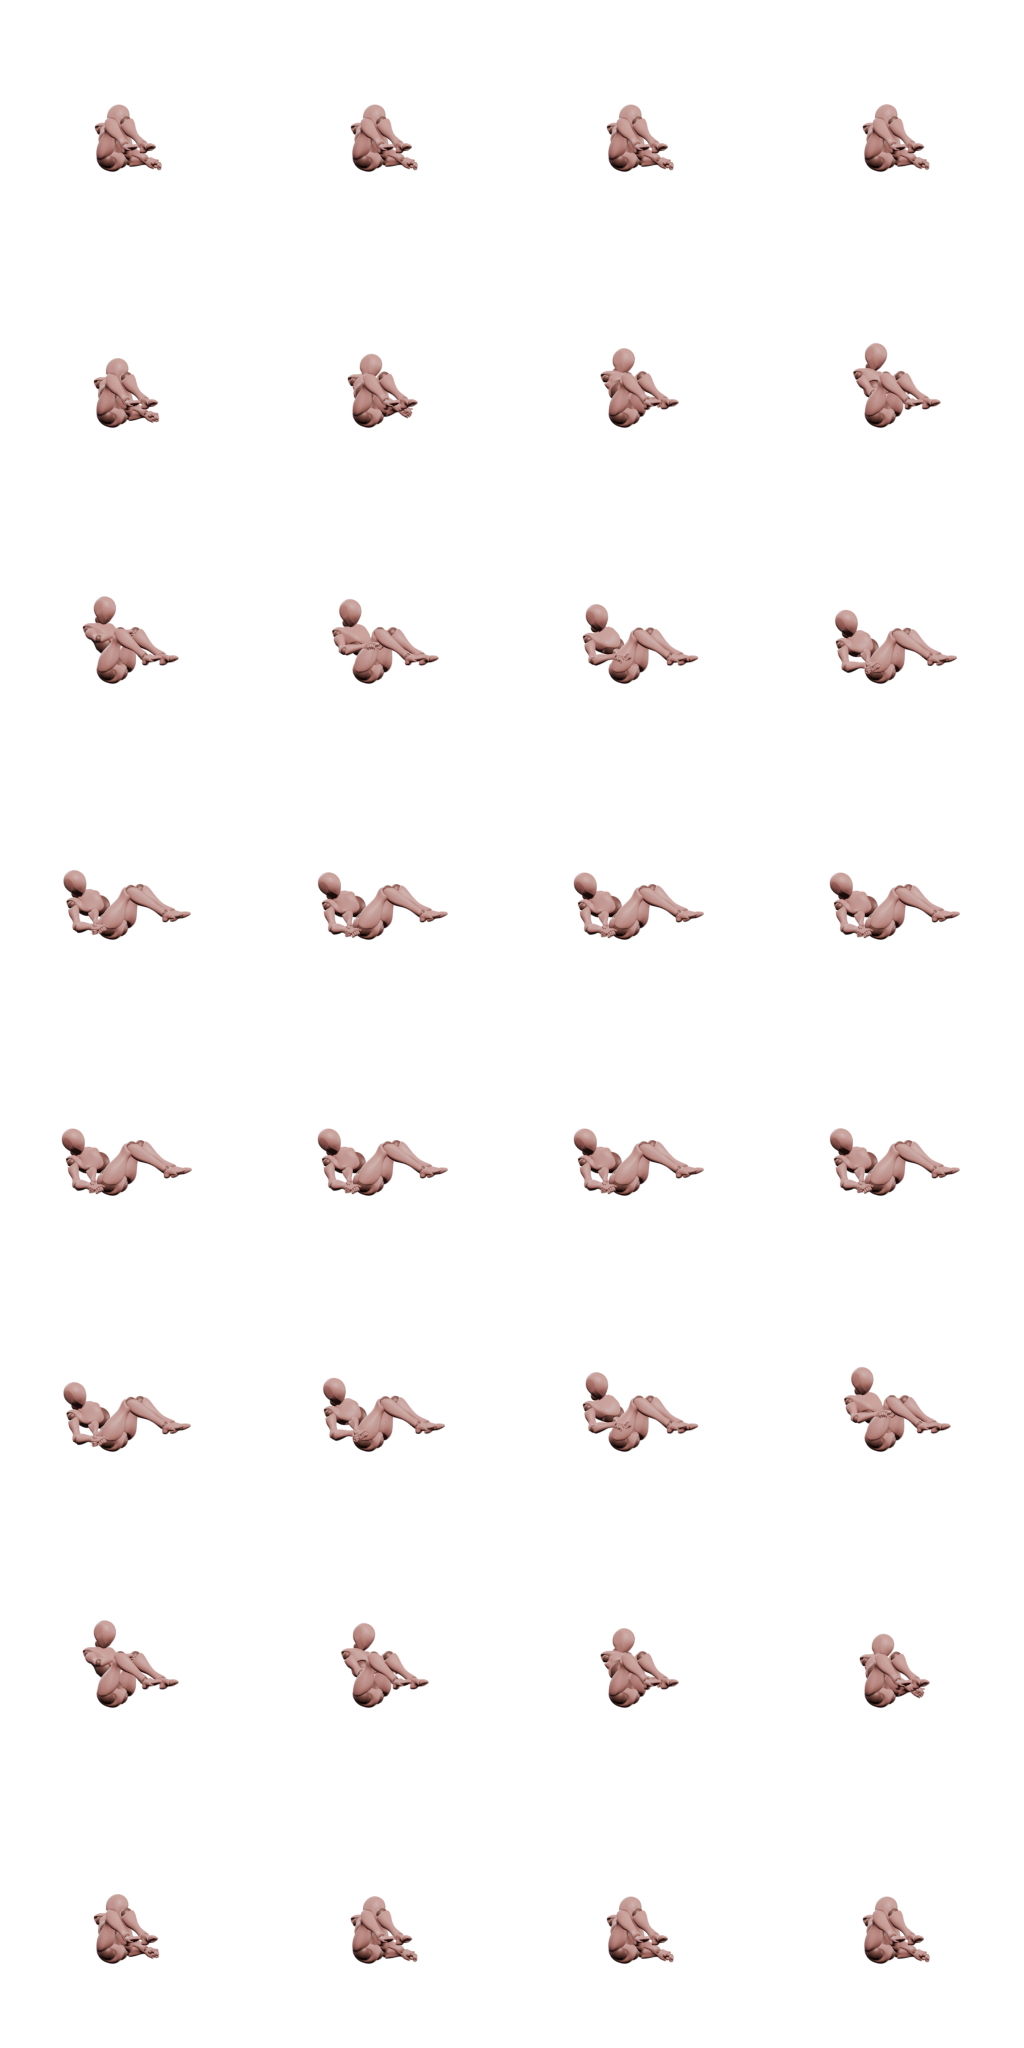
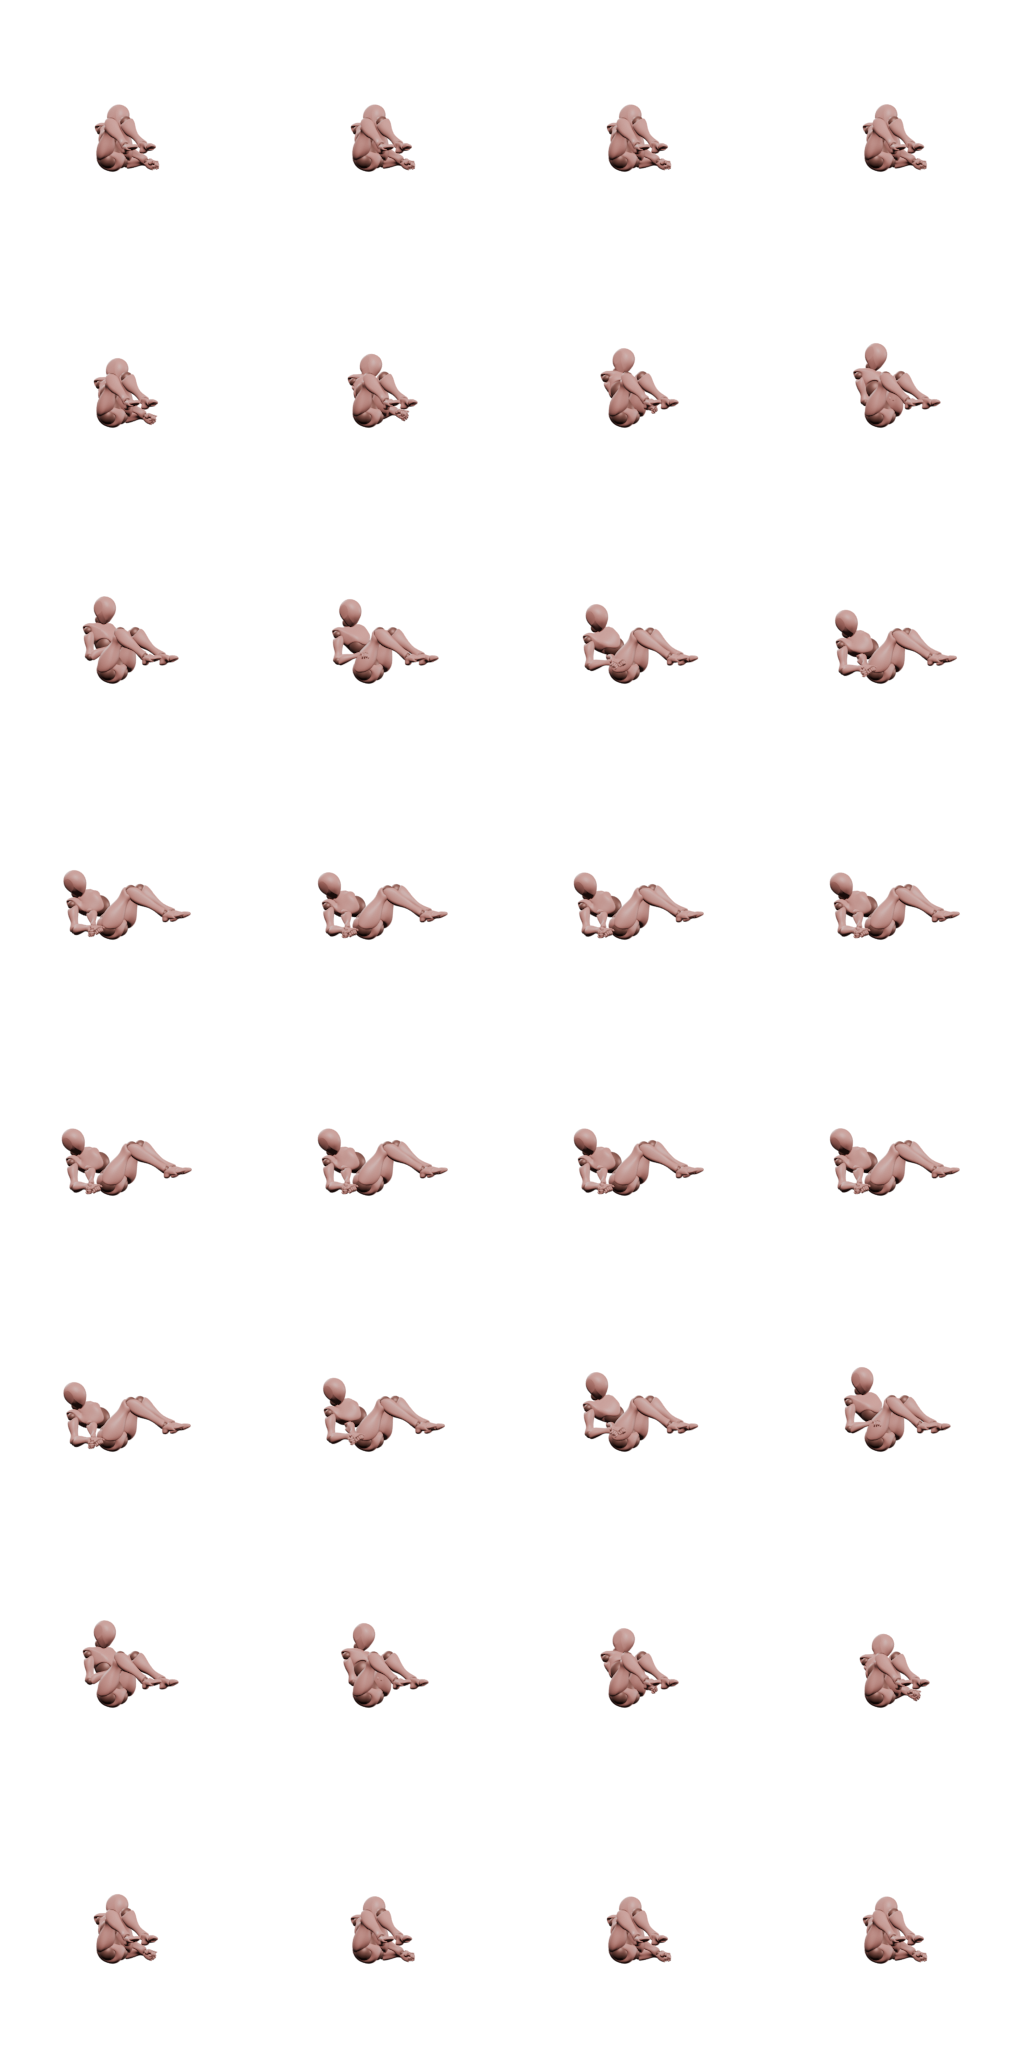
Les bras du russian twist passent entre le torse et les jambes
Trois trajets ont été essayés et mesurés, distance avant-bras/cuisse à
l'appui :

- à cinquante et un centimètres, les mains traversaient pile à la hauteur
  des genoux — mesurés à 0,51 et 0,52 — et entre eux. Au travers des jambes ;
- à vingt-deux, elles filaient **sous** les cuisses. Ce n'est pas davantage
  le geste, et l'avant-bras y passait à 4,8 cm de la cuisse, donc chair
  contre chair ;
- à trente-huit, elles empruntent la poche que laissent le ventre et les
  cuisses. La cuisse n'est qu'à vingt-trois centimètres du sol à cette
  profondeur : la main passe dix-huit centimètres au-dessus d'elle, et le
  minimum sur le tour remonte à 7,2 cm.

Un contrôle de plus, jetable mais qui a tranché : la distance minimale entre
le segment avant-bras-main et les segments cuisse et tibia, échantillonnée
sur les seize images du tour. C'est ce qui a montré que le passage « par
en-dessous » était pire que celui qu'il corrigeait, ce que l'œil ne disait
pas.

Le déplacement moyen par image passe à 1,54.

Claude-Session: https://claude.ai/code/session_01NWeSsvViQDVGJHt91FTbcJ

diff --git a/scripts/gestes_generes.py b/scripts/gestes_generes.py
@@ -1275,8 +1275,8 @@ GESTES = {
                 # de ce côté-là. Il n'en avait pas besoin : le bras est presque
                 # tendu à cette distance, et un bras tendu suit la droite
                 # épaule-main, laquelle passe devant.
-                _os("LeftArm"): Appui((+0.42, -0.16, 0.09), (+0.10, +0.30, -0.95)),
-                _os("RightArm"): Appui((+0.42, -0.16, 0.09), (+0.10, +0.30, -0.95)),
+                _os("LeftArm"): Appui((+0.42, -0.12, 0.09), (+0.10, +0.30, -0.95)),
+                _os("RightArm"): Appui((+0.42, -0.12, 0.09), (+0.10, +0.30, -0.95)),
                 _os("LeftHand"): SUIVRE,
                 _os("RightHand"): SUIVRE,
                 # Les jambes **contrebalancent** : quand les bras descendent à
@@ -1306,8 +1306,23 @@ GESTES = {
                                      paume=(+0.00, -0.906, +0.423)),
                 _os("Spine2"): APlat((+0.00, +0.423, +0.906),
                                      paume=(+0.00, -0.906, +0.423)),
-                _os("LeftArm"): Appui((+0.00, -0.18, 0.51), (+1, 0, -0.3)),
-                _os("RightArm"): Appui((+0.00, -0.18, 0.51), (-1, 0, -0.3)),
+                # Les mains traversent par la **poche** que laissent le ventre
+                # et les cuisses, et non par-dessus les genoux ni par-dessous.
+                #
+                # Les trois trajets ont été essayés et mesurés. À cinquante et
+                # un centimètres, elles passaient pile à la hauteur des genoux
+                # — 0,51 et 0,52 — et entre eux : au travers des jambes. À
+                # vingt-deux, elles filaient **sous** les cuisses, ce qui n'est
+                # pas davantage le geste et laissait l'avant-bras à moins de
+                # cinq centimètres de la cuisse, donc chair contre chair.
+                #
+                # Les genoux étant hauts, il reste entre eux et le buste un
+                # creux : six centimètres devant le bassin, trente-huit
+                # au-dessus du tapis. La cuisse n'y est qu'à vingt-trois
+                # centimètres du sol à cette profondeur, et la main passe donc
+                # dix-huit centimètres au-dessus d'elle, sans la toucher.
+                _os("LeftArm"): Appui((+0.00, -0.06, 0.38), (+0.60, +0.30, -0.75)),
+                _os("RightArm"): Appui((+0.00, -0.06, 0.38), (-0.60, +0.30, -0.75)),
                 _os("LeftHand"): SUIVRE,
                 _os("RightHand"): SUIVRE,
             }),
@@ -1320,8 +1335,8 @@ GESTES = {
                                      paume=(-0.72, -0.70, +0.00)),
                 _os("Neck"): (-0.52, +0.42, +0.74),
                 _os("Head"): (-0.44, -0.30, +0.84),
-                _os("LeftArm"): Appui((-0.42, -0.16, 0.09), (-0.10, +0.30, -0.95)),
-                _os("RightArm"): Appui((-0.42, -0.16, 0.09), (-0.10, +0.30, -0.95)),
+                _os("LeftArm"): Appui((-0.42, -0.12, 0.09), (-0.10, +0.30, -0.95)),
+                _os("RightArm"): Appui((-0.42, -0.12, 0.09), (-0.10, +0.30, -0.95)),
                 _os("LeftHand"): SUIVRE,
                 _os("RightHand"): SUIVRE,
                 # Les jambes **contrebalancent** : quand les bras descendent à
